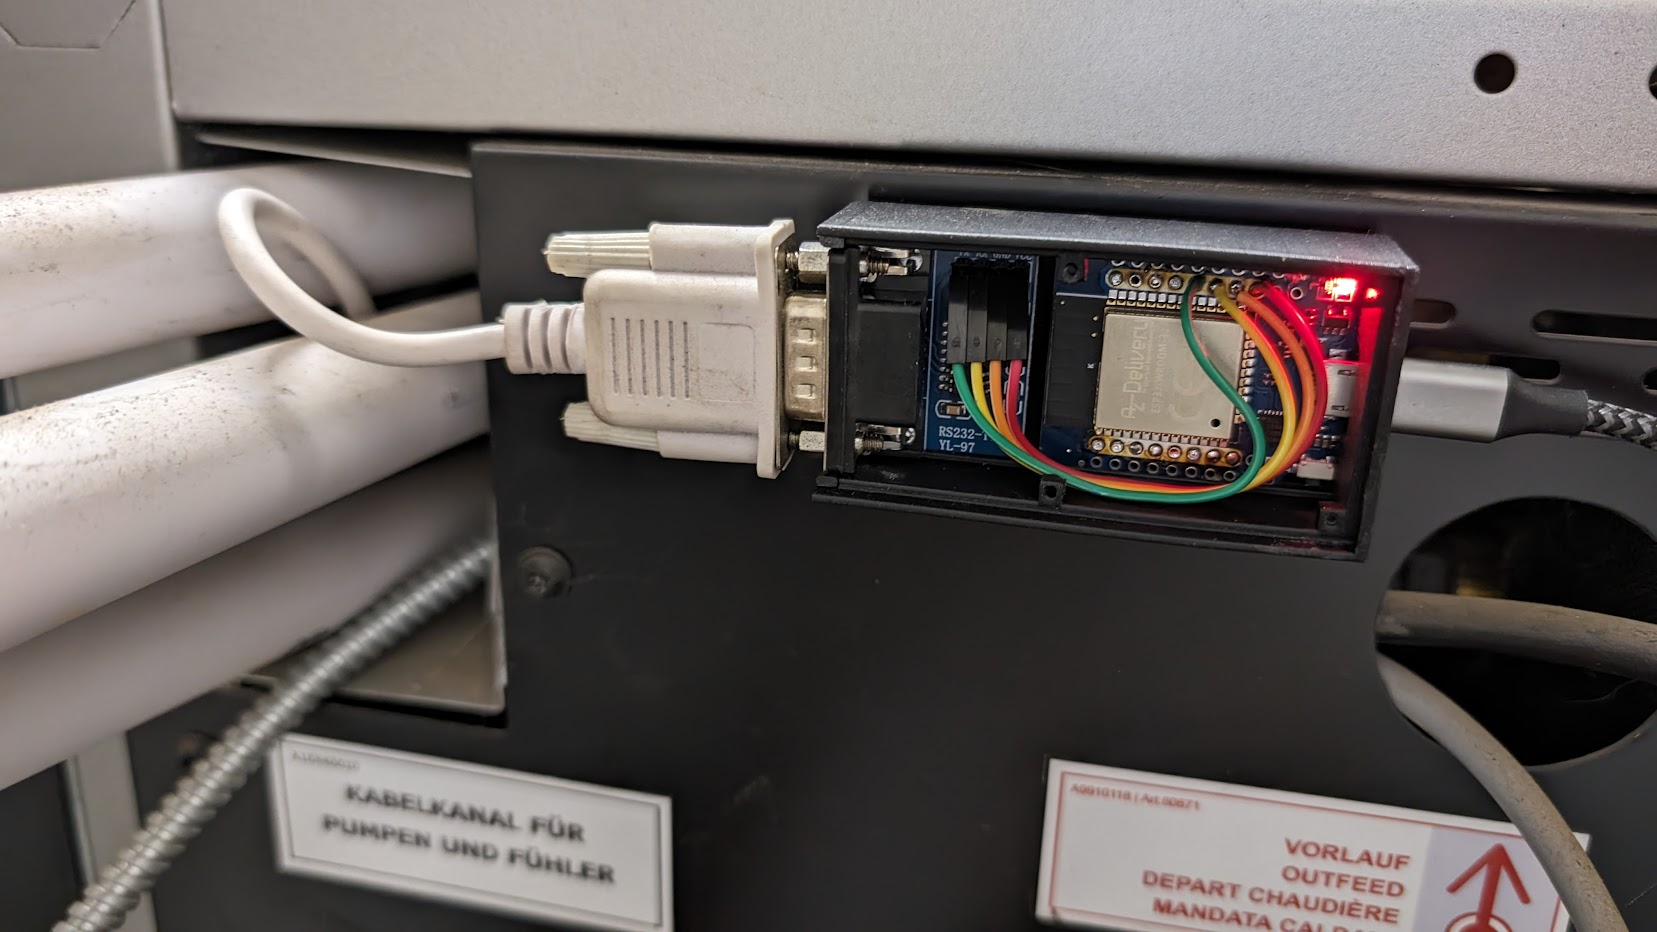
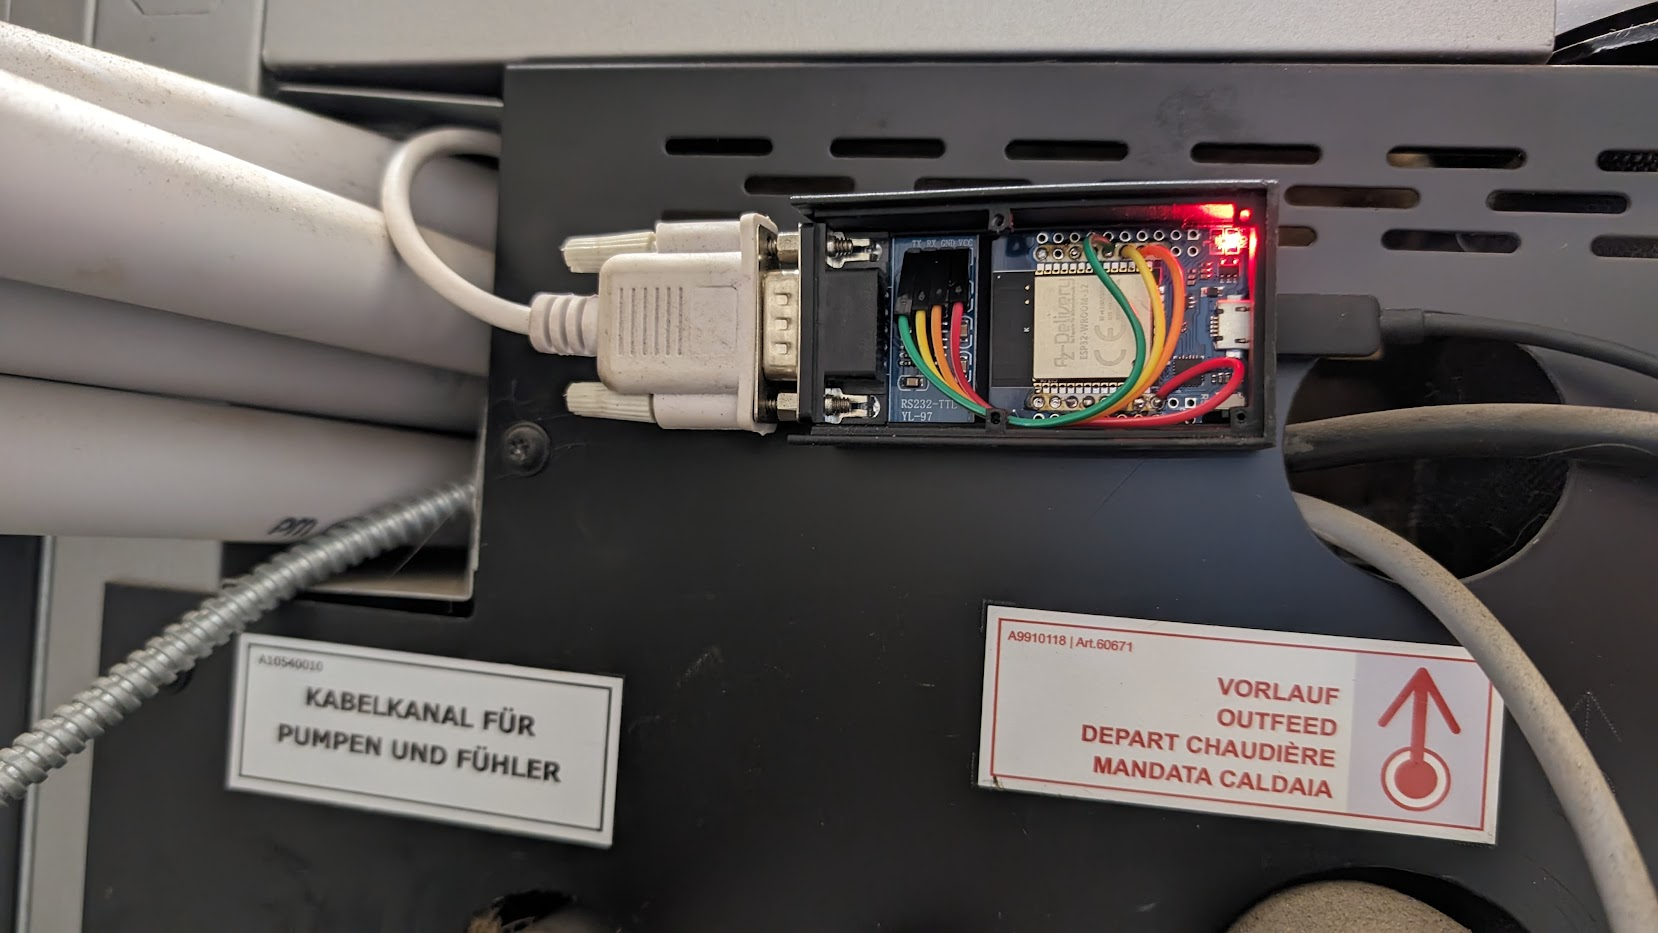
changed rs232 vcc to 3,3 V, updated docs/photos

diff --git a/README.md b/README.md
@@ -23,7 +23,7 @@ MAX3232 DB9 RS232 TTL converter:
 
 ![wiring diagram](docs/wemos-rs3232-ttl.png)
   
-|  Wemos | GPIO17  | GPIO16  | GND  | 5V  |
+|  Wemos | GPIO17  | GPIO16  | GND  | 3V3 (3,3V)  |
 |---|---|---|---|---|
 | MAX3232  | TX  |  RX |  GND | VCC  |
 
